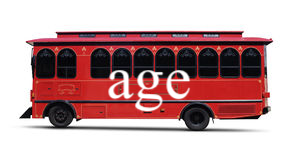
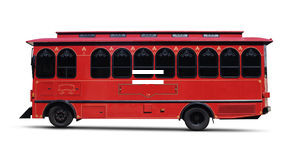
finished lesson 4 game

Changed region(s): [[0.3624, 0.4375, 0.6342, 0.7188]]

diff --git a/cgames/templates/assignments/4.html b/cgames/templates/assignments/4.html
@@ -96,7 +96,7 @@
                     </div>
 
                     <div id="question1">
-                        <p>what is the proper order for the code missing?</p>
+                        <p>What is the proper order for the code missing?</p>
                         {% call utils.code('python') %}
                           #random number between 0 and 10
                           import random*
@@ -106,22 +106,17 @@
                     </div>
 
                     <div id="question2">
-                        <p>
-                            Unscramble this line of code. The result should finish
-                            a program to guess the user’s age.
-                        </p>
+                        <p>What is the proper order for the code missing?</p>
                         {% call utils.code('python') %}
-                            >>> age = 22
-                            >>> print('Guess my age!')
-                            >>> guess = int(input('Guess: '))
-                            >>> # Your code goes here
-                            ...     print('Good job!')
+                        #select 8 random numbers from the list
+                        items = []
+                        for i in range(0,100):
+                          items.append(i)
+                        #YOUR CODE HERE
+                        print(y)
                         {% endcall %}
 
                         <p>Put these in order to create correct code.</p>
-                    </div>
-
-                        <p>What is printed?</p>
                     </div>
 
                     <div id="move">

diff --git a/cgames/static/js/assignments/dragNdrop0.js b/cgames/static/js/assignments/dragNdrop0.js
@@ -42,12 +42,12 @@ html = document.getElementById('gameContainer').innerHTML;
 // pick a ramdom img for vehicles
 function choosePic() {
 
-  if (qCount < 3){
+  if (qCount < 4){
   document.getElementById("question" + qCount).style.display = "block";
   }
 
   //Print the question you're on
-  document.getElementById("questionNumber").innerHTML = "Train " + (qCount + 1) + " out of 6";
+  document.getElementById("questionNumber").innerHTML = "Train " + (qCount + 1) + " out of 3";
 
   //go through different question by folder when ever user clicks next
   var folderName = qfolder[qCount];
